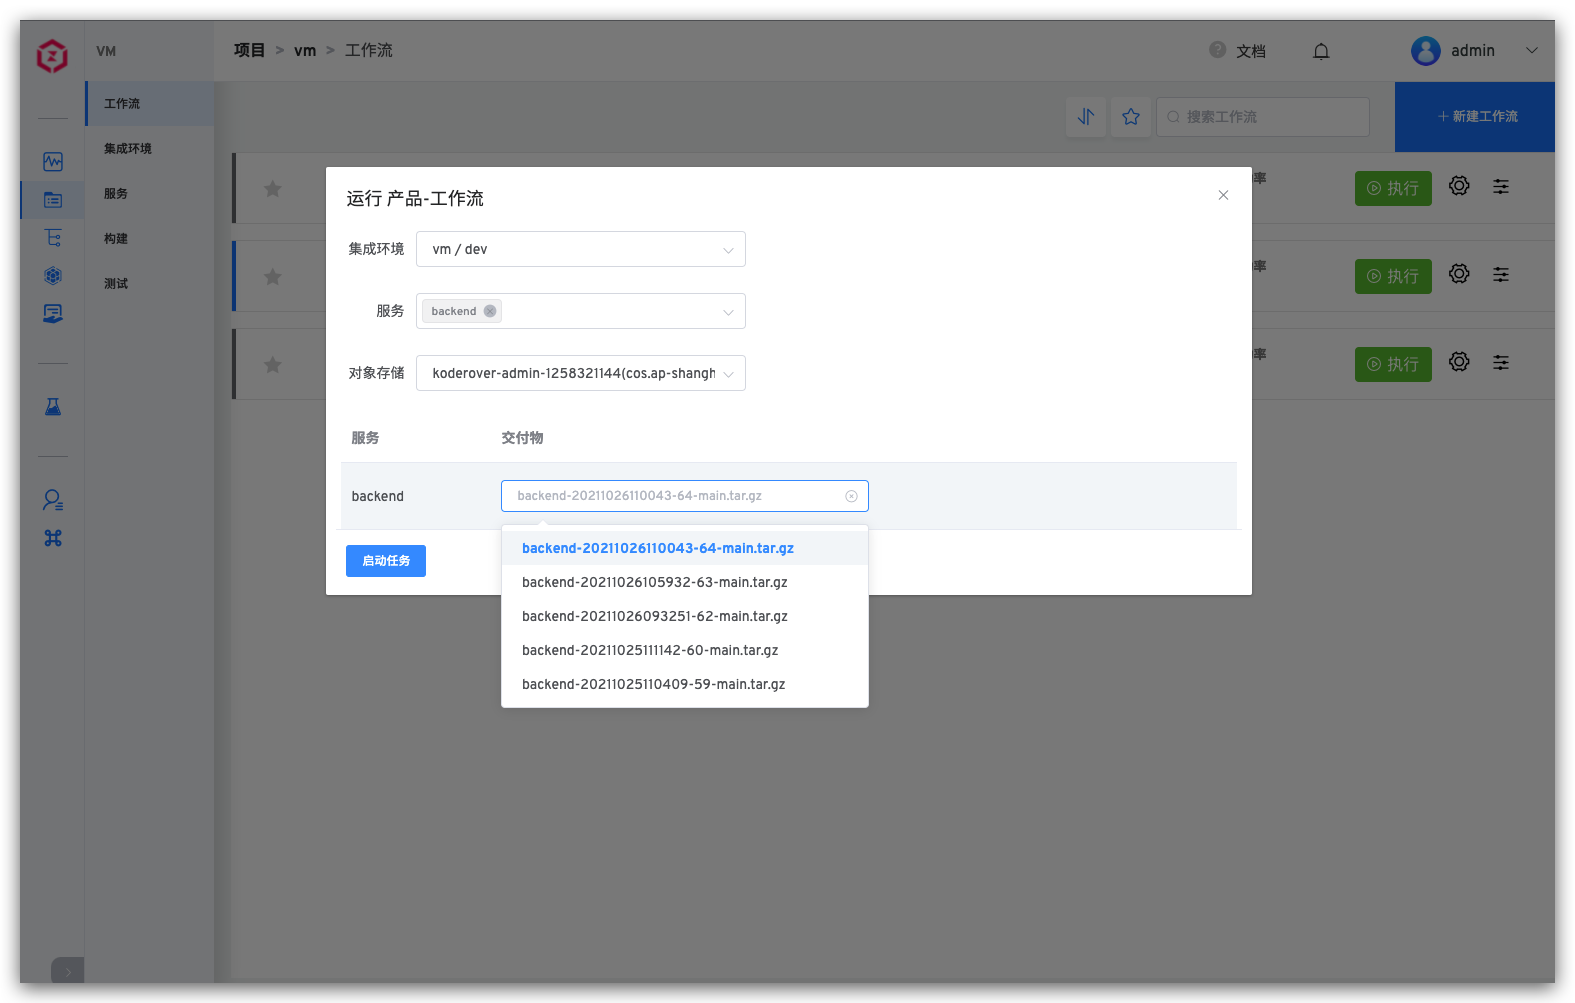
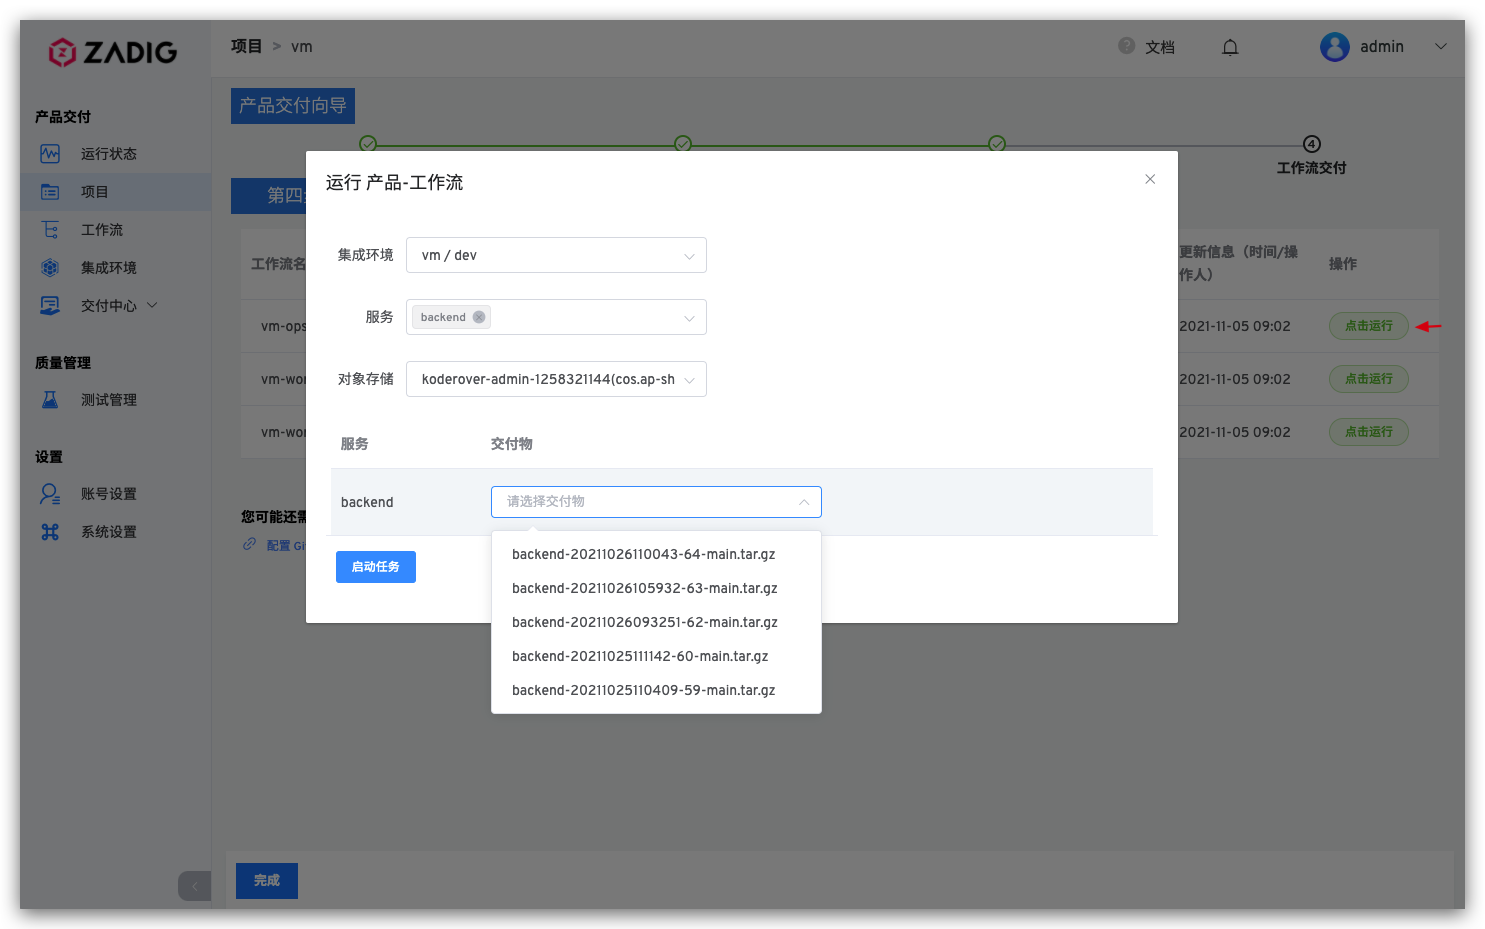
update vm project

diff --git a/zh_cn/04.项目/00.项目定义/04.VM.md b/zh_cn/04.项目/00.项目定义/04.VM.md
@@ -83,7 +83,7 @@ ssh -i $PK $USERNAME@$IP 'cd /cfs/microservice/backend && ./restart.sh '$PKG_FIL
 
 ## 工作流交付
 
-待环境和工作流准备完毕，点击`下一步`，可触发工作流对服务进行更新。
+待环境和工作流准备完毕，点击`下一步`，选择 dev 环境的工作流，可触发 dev 环境的服务更新。
 
 ![工作流交付](../_images/vm_onboarding_4.png)
 
